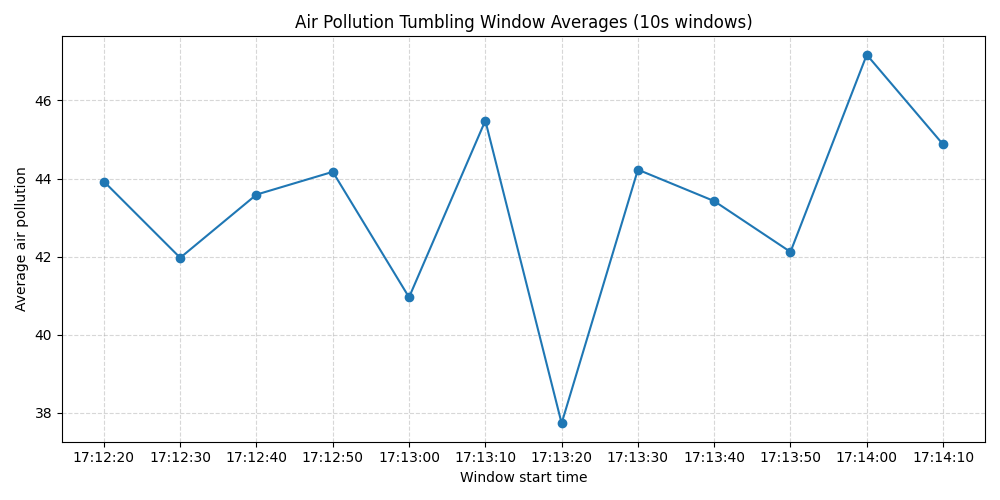
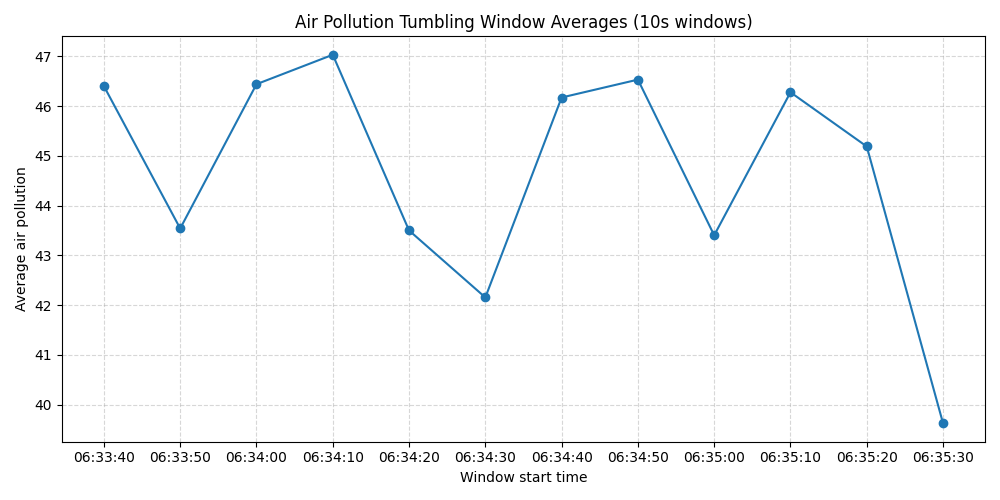
minimal-delta-joining.py wouldn't work on mac and wouldnt save any png files, updated it accordingly. Added landmark_window_graph.py.

diff --git a/landmark_window_graph.py b/landmark_window_graph.py
@@ -1,0 +1,114 @@
+#!/usr/bin/env python3
+
+import threading
+import logging
+from datetime import datetime
+
+import matplotlib.pyplot as plt
+
+from stream import stream
+from sensor_energy_source import sensor_energy_source
+
+
+def landmark_window_consumer(in_stream, max_points=50):
+    """Consume an energy stream and yield running landmark-window averages as tuples.
+    Yields (landmark_ts, current_ts, count, avg)
+    """
+    landmark = None
+    window_sum = 0.0
+    window_count = 0
+    results = []
+
+    while len(results) < max_points:
+        ts, value = in_stream.get()
+
+        if landmark is None:
+            landmark = ts - (ts % 1)  # normalize to second
+
+        if ts >= landmark:
+            window_sum += value
+            window_count += 1
+            avg = window_sum / window_count if window_count > 0 else 0.0
+            result = (landmark, ts, window_count, avg)
+            results.append(result)
+            yield result
+        else:
+            logging.debug('Tuple ignored (older than landmark)')
+
+    return
+
+
+def setup_live_plot():
+    fig, ax = plt.subplots(figsize=(10, 5))
+    line, = ax.plot([], [], marker='o', linestyle='-', color='tab:green')
+    ax.set_title('Sensor Energy Landmark Window (cumulative average)')
+    ax.set_xlabel('Time')
+    ax.set_ylabel('Average energy (Wh)')
+    ax.grid(True, linestyle='--', alpha=0.5)
+    ax.set_xlim(0, 1)
+    ax.set_ylim(0, 1)
+    fig.tight_layout()
+    plt.ion()
+    plt.show(block=False)
+    return fig, ax, line
+
+
+def update_live_plot(fig, ax, line, results):
+    labels = [datetime.fromtimestamp(ts).strftime('%H:%M:%S') for _, ts, _, _ in results]
+    averages = [avg for _, _, _, avg in results]
+    x = list(range(len(results)))
+    line.set_data(x, averages)
+    ax.set_xticks(x)
+    ax.set_xticklabels(labels, rotation=45, ha='right')
+    ax.set_xlim(-0.5, max(len(results) - 0.5, 0.5))
+    if averages:
+        current_min = min(averages)
+        current_max = max(averages)
+        margin = max(0.001, (current_max - current_min) * 0.1)
+        ax.set_ylim(max(0, current_min - margin), current_max + margin)
+    fig.canvas.draw_idle()
+    plt.pause(0.01)
+
+
+def plot_window_averages(results):
+    labels = [datetime.fromtimestamp(ts).strftime('%H:%M:%S') for _, ts, _, _ in results]
+    averages = [avg for _, _, _, avg in results]
+
+    plt.figure(figsize=(10, 5))
+    plt.plot(labels, averages, marker='o', linestyle='-', color='tab:green')
+    plt.title('Sensor Energy Landmark Window (cumulative average)')
+    plt.xlabel('Time')
+    plt.ylabel('Average energy (Wh)')
+    plt.grid(True, linestyle='--', alpha=0.5)
+    plt.tight_layout()
+    plot_path = 'landmark_window_plot.png'
+    plt.savefig(plot_path)
+    logging.info('Plot saved to %s', plot_path)
+    try:
+        plt.show()
+    except Exception:
+        logging.info('Plot display unavailable; open %s manually instead.', plot_path)
+
+
+if __name__ == '__main__':
+    logging.basicConfig(level=logging.INFO, format='[%(levelname)s] (%(threadName)-10s) %(message)s')
+
+    energy_stream = stream('Sensor Energy Stream', 10)
+    energy_thread = threading.Thread(name='sensor_energy', target=sensor_energy_source, args=(energy_stream,), daemon=True)
+    energy_thread.start()
+
+    fig, ax, line = setup_live_plot()
+    results = []
+
+    for result in landmark_window_consumer(energy_stream, max_points=10):
+        results.append(result)
+        update_live_plot(fig, ax, line, results)
+        start, ts, count, avg = result
+        logging.info('Landmark %s | Current %s | Count: %d | Avg: %.4f Wh',
+                     datetime.fromtimestamp(start).strftime('%H:%M:%S'),
+                     datetime.fromtimestamp(ts).strftime('%H:%M:%S'),
+                     count,
+                     avg)
+
+    plot_window_averages(results)
+    logging.info('Live update finished. Plot saved as landmark_window_plot.png')

diff --git a/minimal-delta-joining.py b/minimal-delta-joining.py
@@ -7,11 +7,12 @@ import random
 import logging
 
 import time
+import matplotlib
+matplotlib.use('Agg')
 import matplotlib.pyplot as plt
-from datetime import datetime
-from luftverschmutzung_quelle import luftverschmutzung_quelle
+from air_pollution_source import air_pollution_source
 from stream import stream
-from wetter_quelle import wetter_quelle
+from weather_source import weather_source
 
 #######################
 
@@ -48,6 +49,8 @@ def minimal_delta_joining(stream1, stream2, window_size=10):
     ax.set_ylabel("Value")
     ax.legend()
     ax.grid(True)
+
+    plot_path = 'minimal_delta_joining_plot.png'
 
     while True:
 
@@ -164,6 +167,12 @@ def minimal_delta_joining(stream1, stream2, window_size=10):
                 for item in joined_list:
                     logging.debug("minimal delta joining: %s", item)
 
+                try:
+                    fig.savefig(plot_path)
+                    logging.info('Plot saved to %s', plot_path)
+                except Exception as err:
+                    logging.warning('Failed to save plot: %s', err)
+
                 joined_list = []
 
             t1 = time.time()
@@ -172,19 +181,19 @@ def minimal_delta_joining(stream1, stream2, window_size=10):
 logging.basicConfig(level=logging.DEBUG, format='[%(levelname)s] (%(threadName)-10s) %(message)s')
 
 # define two streams with different sizes
-luftverschmutzung_stream = stream("Luftverschmutzung Stream", 10)
-wetter_stream = stream("Wetter Stream", 10)
+air_pollution_stream = stream("Air Pollution Stream", 10)
+weather_stream = stream("Weather Stream", 10)
 # the output stream for the join results
 merge_stream = stream("Join Stream", 10)
 
 # create threads for three operators 2 sources and one join operator and one sink
-luftverschmutzung_thread = threading.Thread(name='luftverschmutzung', target=luftverschmutzung_quelle, args=(luftverschmutzung_stream,))
-wetter_thread = threading.Thread(name='wetter', target=wetter_quelle, args=(wetter_stream,))
-join_thread = threading.Thread(name='join', target=minimal_delta_joining, args=(wetter_stream, luftverschmutzung_stream, 50))
+air_pollution_thread = threading.Thread(name='air_pollution', target=air_pollution_source, args=(air_pollution_stream,))
+weather_thread = threading.Thread(name='weather', target=weather_source, args=(weather_stream,))
+join_thread = threading.Thread(name='join', target=minimal_delta_joining, args=(weather_stream, air_pollution_stream, 50))
 sink_thread = threading.Thread(name='sink', target=sink, args=(merge_stream,))
 
-luftverschmutzung_thread.start()
-wetter_thread.start()
+air_pollution_thread.start()
+weather_thread.start()
 join_thread.start()
 sink_thread.start()
 